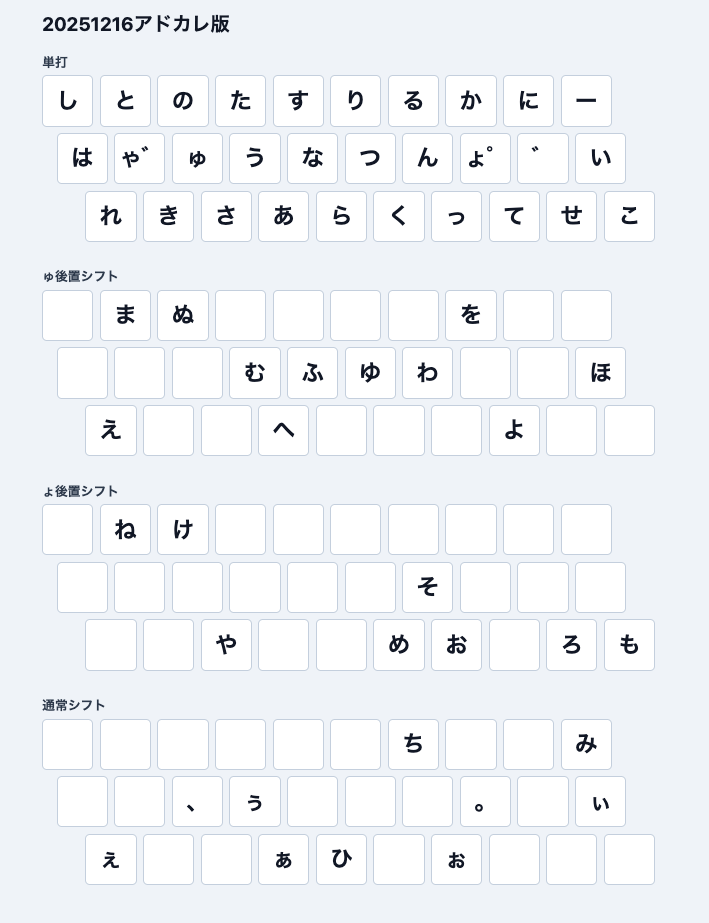
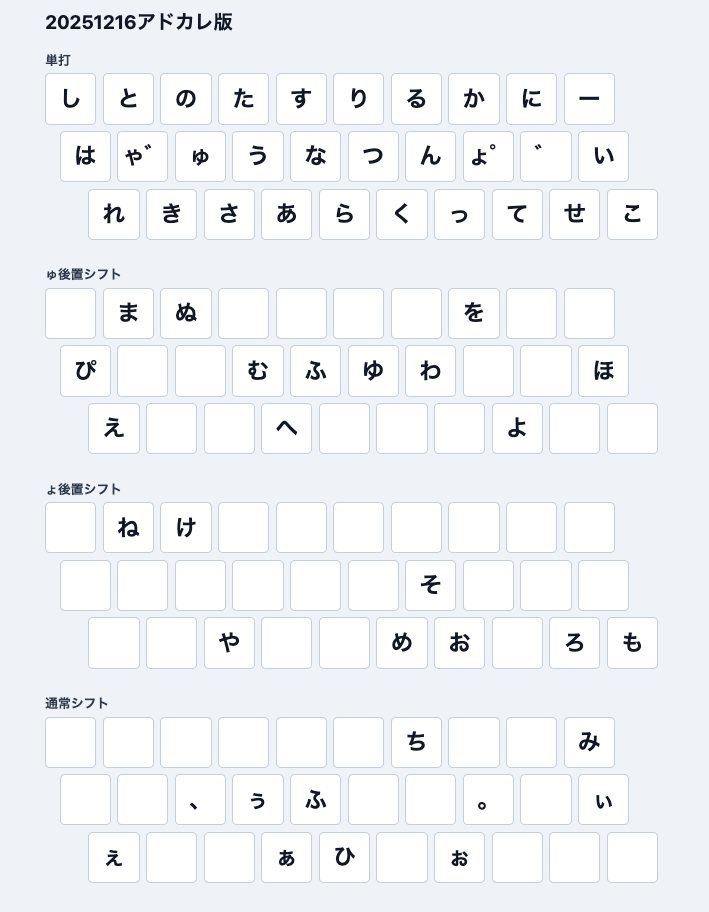
配列図に母音の小書きを載せるように修正

diff --git a/packages/web/src/App.tsx b/packages/web/src/App.tsx
@@ -1,8 +1,8 @@
-import { keyPositions } from "cli/core";
+import { KeyPosition, keyPositions } from "cli/core";
 import { layout20251216adcale } from "cli/layout-fixtures";
 
 type KeyInfo = {
-  position: number;
+  position: KeyPosition;
   row: number;
   col: number;
   label: string;
@@ -69,6 +69,12 @@ function KeyboardBoard({ title, slot }: BoardProps) {
           let text = normalizeLabel(key.label);
           if (key.vowel && slot === "normalShift") {
             text = kogaki(key.vowel) ?? "";
+          }
+          if (layout[key.position].oneStroke === "は" && slot === "shift1") {
+            text = "ぴ";
+          }
+          if (layout[key.position].shift1 === "ふ" && slot === "normalShift") {
+            text = "ふ";
           }
 
           const wide = text.length >= 2;
